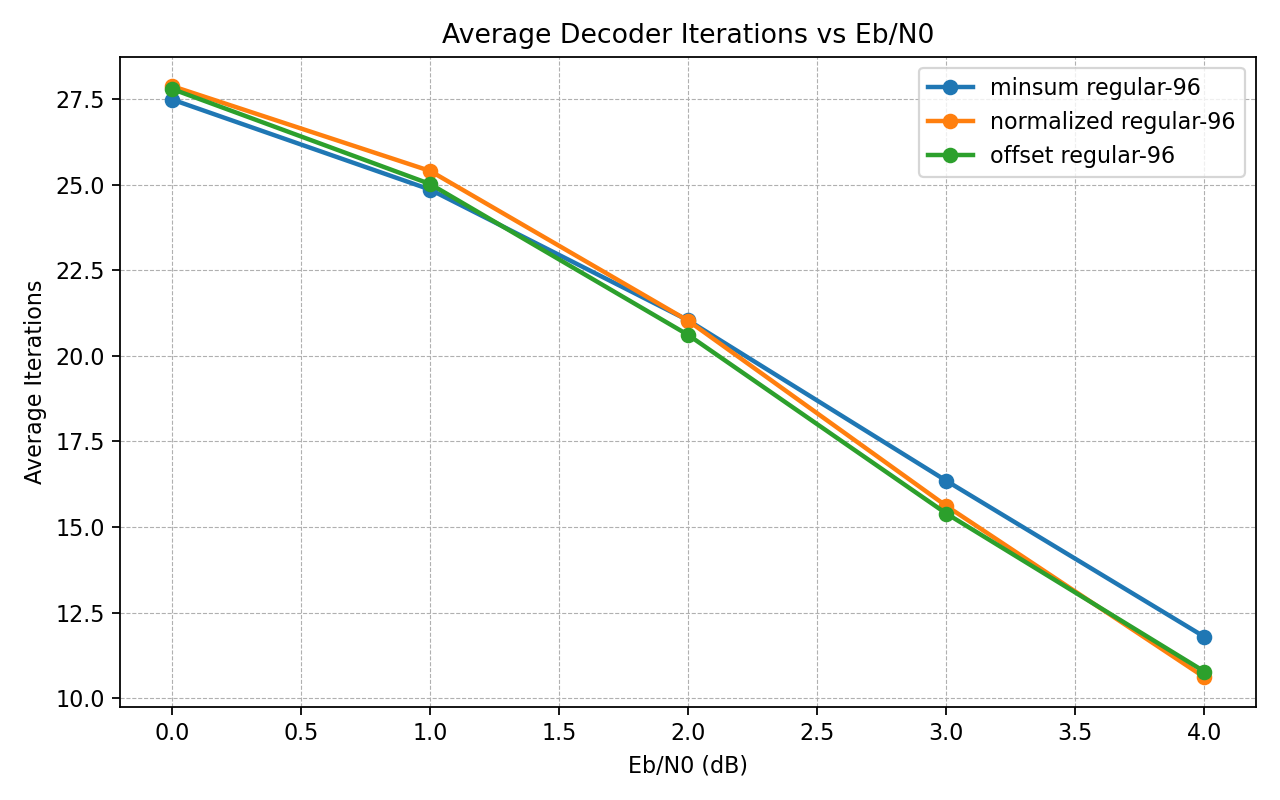
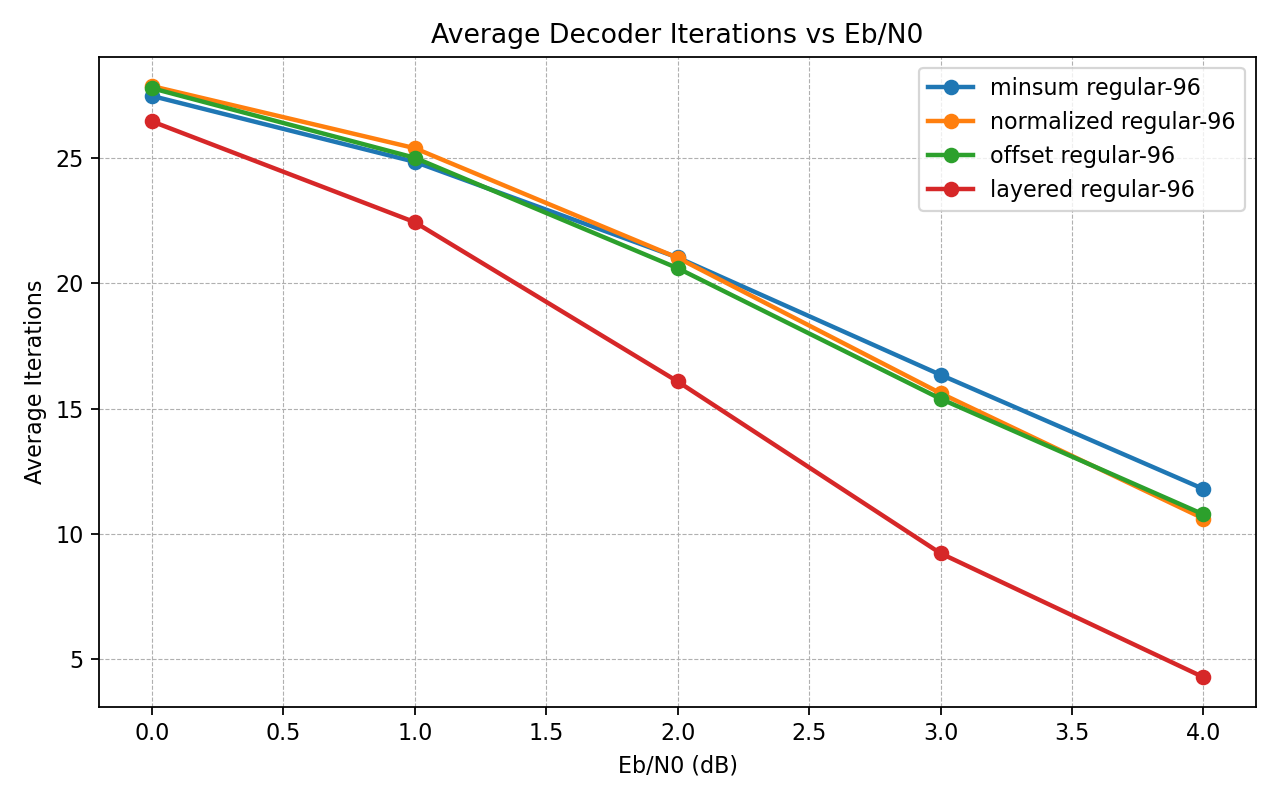
update documentation and add new plots

diff --git a/README.md b/README.md
@@ -5,7 +5,7 @@
 ![License](https://img.shields.io/badge/license-MIT-green)
 ![Tests](https://img.shields.io/badge/tests-passing-brightgreen)
 
-The present repo implements a LDPC (Low-Density Parity-Check) decoder implementation in Java using iterative Belief Propagation algorithms over sparse Tanner graphs.
+The present repo implements an experimental framework for Low-Density Parity-Check (LDPC) codes in Java. It includes multiple belief-propagation decoder variants, sparse Tanner graph representations, Monte Carlo simulation tools and performance-analysis utilities for studying iterative decoding over noisy communication channels.
 
 At its core, the decoder attempts to solve a deceptively difficult problem. This consists of the following: a message is transmitted through a noisy physical channel, with each bit being corrupted by random noise. The question is, can the original information still be reconstructed? Surprisingly, the answer is yes. 
 
@@ -44,10 +44,10 @@ Below, we describe the features from this implementation, and point to a roadmap
 - 48×96 regular LDPC experiments
 - Decoder comparison framework
 - JUnit test suite
+- Layered decoding
 
 ## Planned
 
-- Layered decoding
 - Larger parity-check matrices
 - 5G NR LDPC matrices
 - DVB-S2 matrices
@@ -131,6 +131,60 @@ H · x = 0 mod 2
 
 Then, if all constraints are satisfied, decoding terminates successfully.
 
+## Layered Decoding
+
+The classical implementation of Belief Propagation uses a flooding schedule. During iteration \(t\), all check-node messages are computed before any variable-node beliefs are updated.
+
+For the Normalized Min-Sum approximation, the check-node update is
+
+\[
+r_{c \rightarrow v}^{(t)}
+=
+\alpha
+\,
+\operatorname{sign}
+\!\left(
+\prod_{v' \in N(c)\setminus v}
+q_{v' \rightarrow c}^{(t-1)}
+\right)
+\,
+\min_{v' \in N(c)\setminus v}
+\left|
+q_{v' \rightarrow c}^{(t-1)}
+\right|,
+\]
+
+where \(N(c)\) denotes the set of variable nodes connected to check node \(c\).
+
+The posterior belief of variable node \(v\) is then computed as
+
+\[
+L_v^{(t)}
+=
+L_{\mathrm{ch}}(v)
++
+\sum_{c \in N(v)}
+r_{c \rightarrow v}^{(t)}.
+\]
+
+In the flooding schedule, the newly computed messages are not used until the next decoding iteration.
+
+Layered decoding modifies this procedure by processing the parity-check matrix one layer at a time. After computing a new check-node message, the corresponding posterior belief is updated immediately:
+
+\[
+L_v
+\leftarrow
+L_v
+-
+r_{c \rightarrow v}^{\mathrm{old}}
++
+r_{c \rightarrow v}^{\mathrm{new}}.
+\]
+
+This update removes the stale contribution from the previous iteration and replaces it with the newly computed message. As a consequence, information propagates through the Tanner graph more rapidly, allowing subsequent layers to operate on fresher beliefs within the same iteration.
+
+Empirically, this often leads to both faster convergence and improved decoding performance. In experiments on a regular \((48,96)\) LDPC code, Layered Min-Sum reduced the average number of decoding iterations from approximately \(11\) to \(4\), while simultaneously achieving the best BER and FER performance among the implemented decoder variants.
+
 ## AWGN Channel Model
 
 The communication channel is modeled using an Additive White Gaussian Noise (or AWGN) process:
@@ -198,6 +252,46 @@ tools/
 results/
 ├── ber/
 └── figures/
+```
+
+# Simulation Workflow
+
+The simulator evaluates LDPC decoder performance by transmitting codewords through a noisy communication channel and attempting to reconstruct them using iterative belief propagation.
+
+```text
+All-Zero Codeword
+        │
+        ▼
+ BPSK Modulation
+        │
+        ▼
+   AWGN Channel
+        │
+        ▼
+ Received Symbols
+        │
+        ▼
+ LLR Initialization
+        │
+        ▼
+  LDPC Decoder
+        │
+        ├─ Min-Sum
+        ├─ Normalized Min-Sum
+        ├─ Offset Min-Sum
+        └─ Layered Min-Sum
+        │
+        ▼
+ Decoded Codeword
+        │
+        ▼
+ Syndrome Check
+        │
+        ▼
+ BER / FER Statistics
+        │
+        ▼
+ Performance Curves
 ```
 
 
@@ -331,6 +425,17 @@ python3 tools/plot_alpha_sweep.py
 
 ### Average Iterations Curve
 ![Average Iterations Curve](results/figures/avg_iterations_curve.png)
+
+# Experimental Setup
+
+Unless otherwise noted:
+
+- Code: Regular (48,96) LDPC
+- Rate: 1/2
+- Channel: AWGN
+- Modulation: BPSK
+- Trials: 10,000 per Eb/N0 point
+- Maximum iterations: 30
 
 # Decoder Comparison (48x96 Regular LDPC)
 
